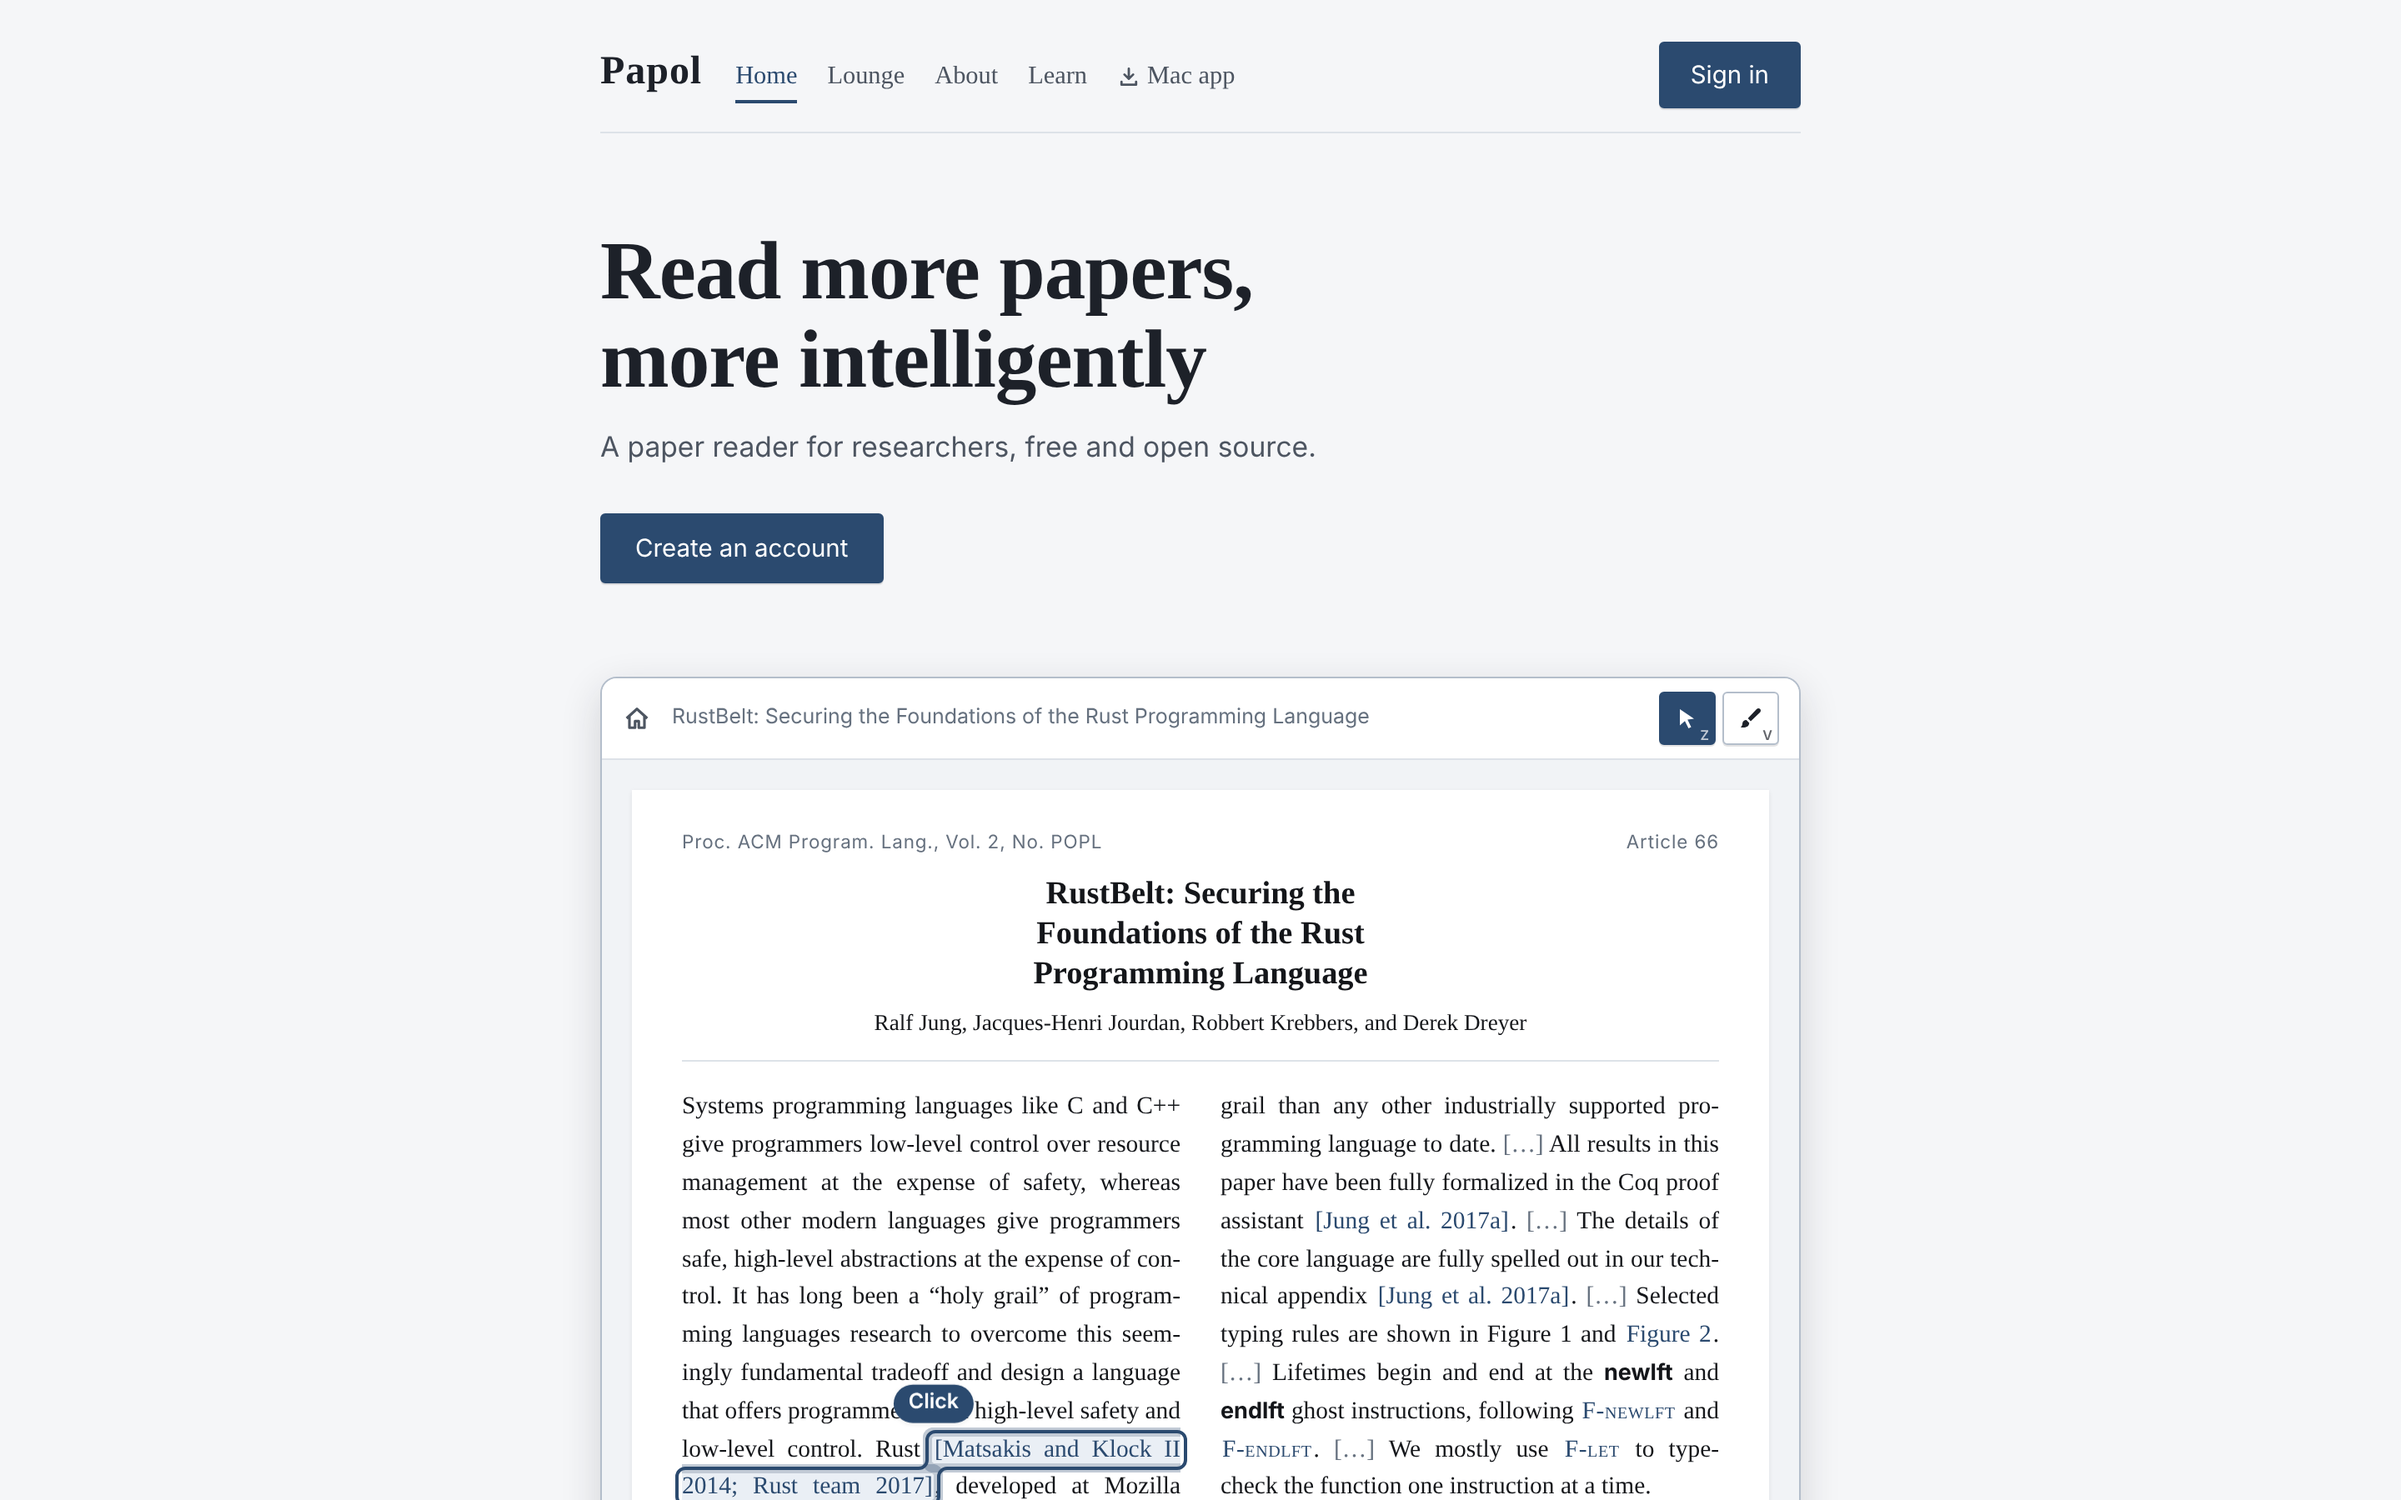
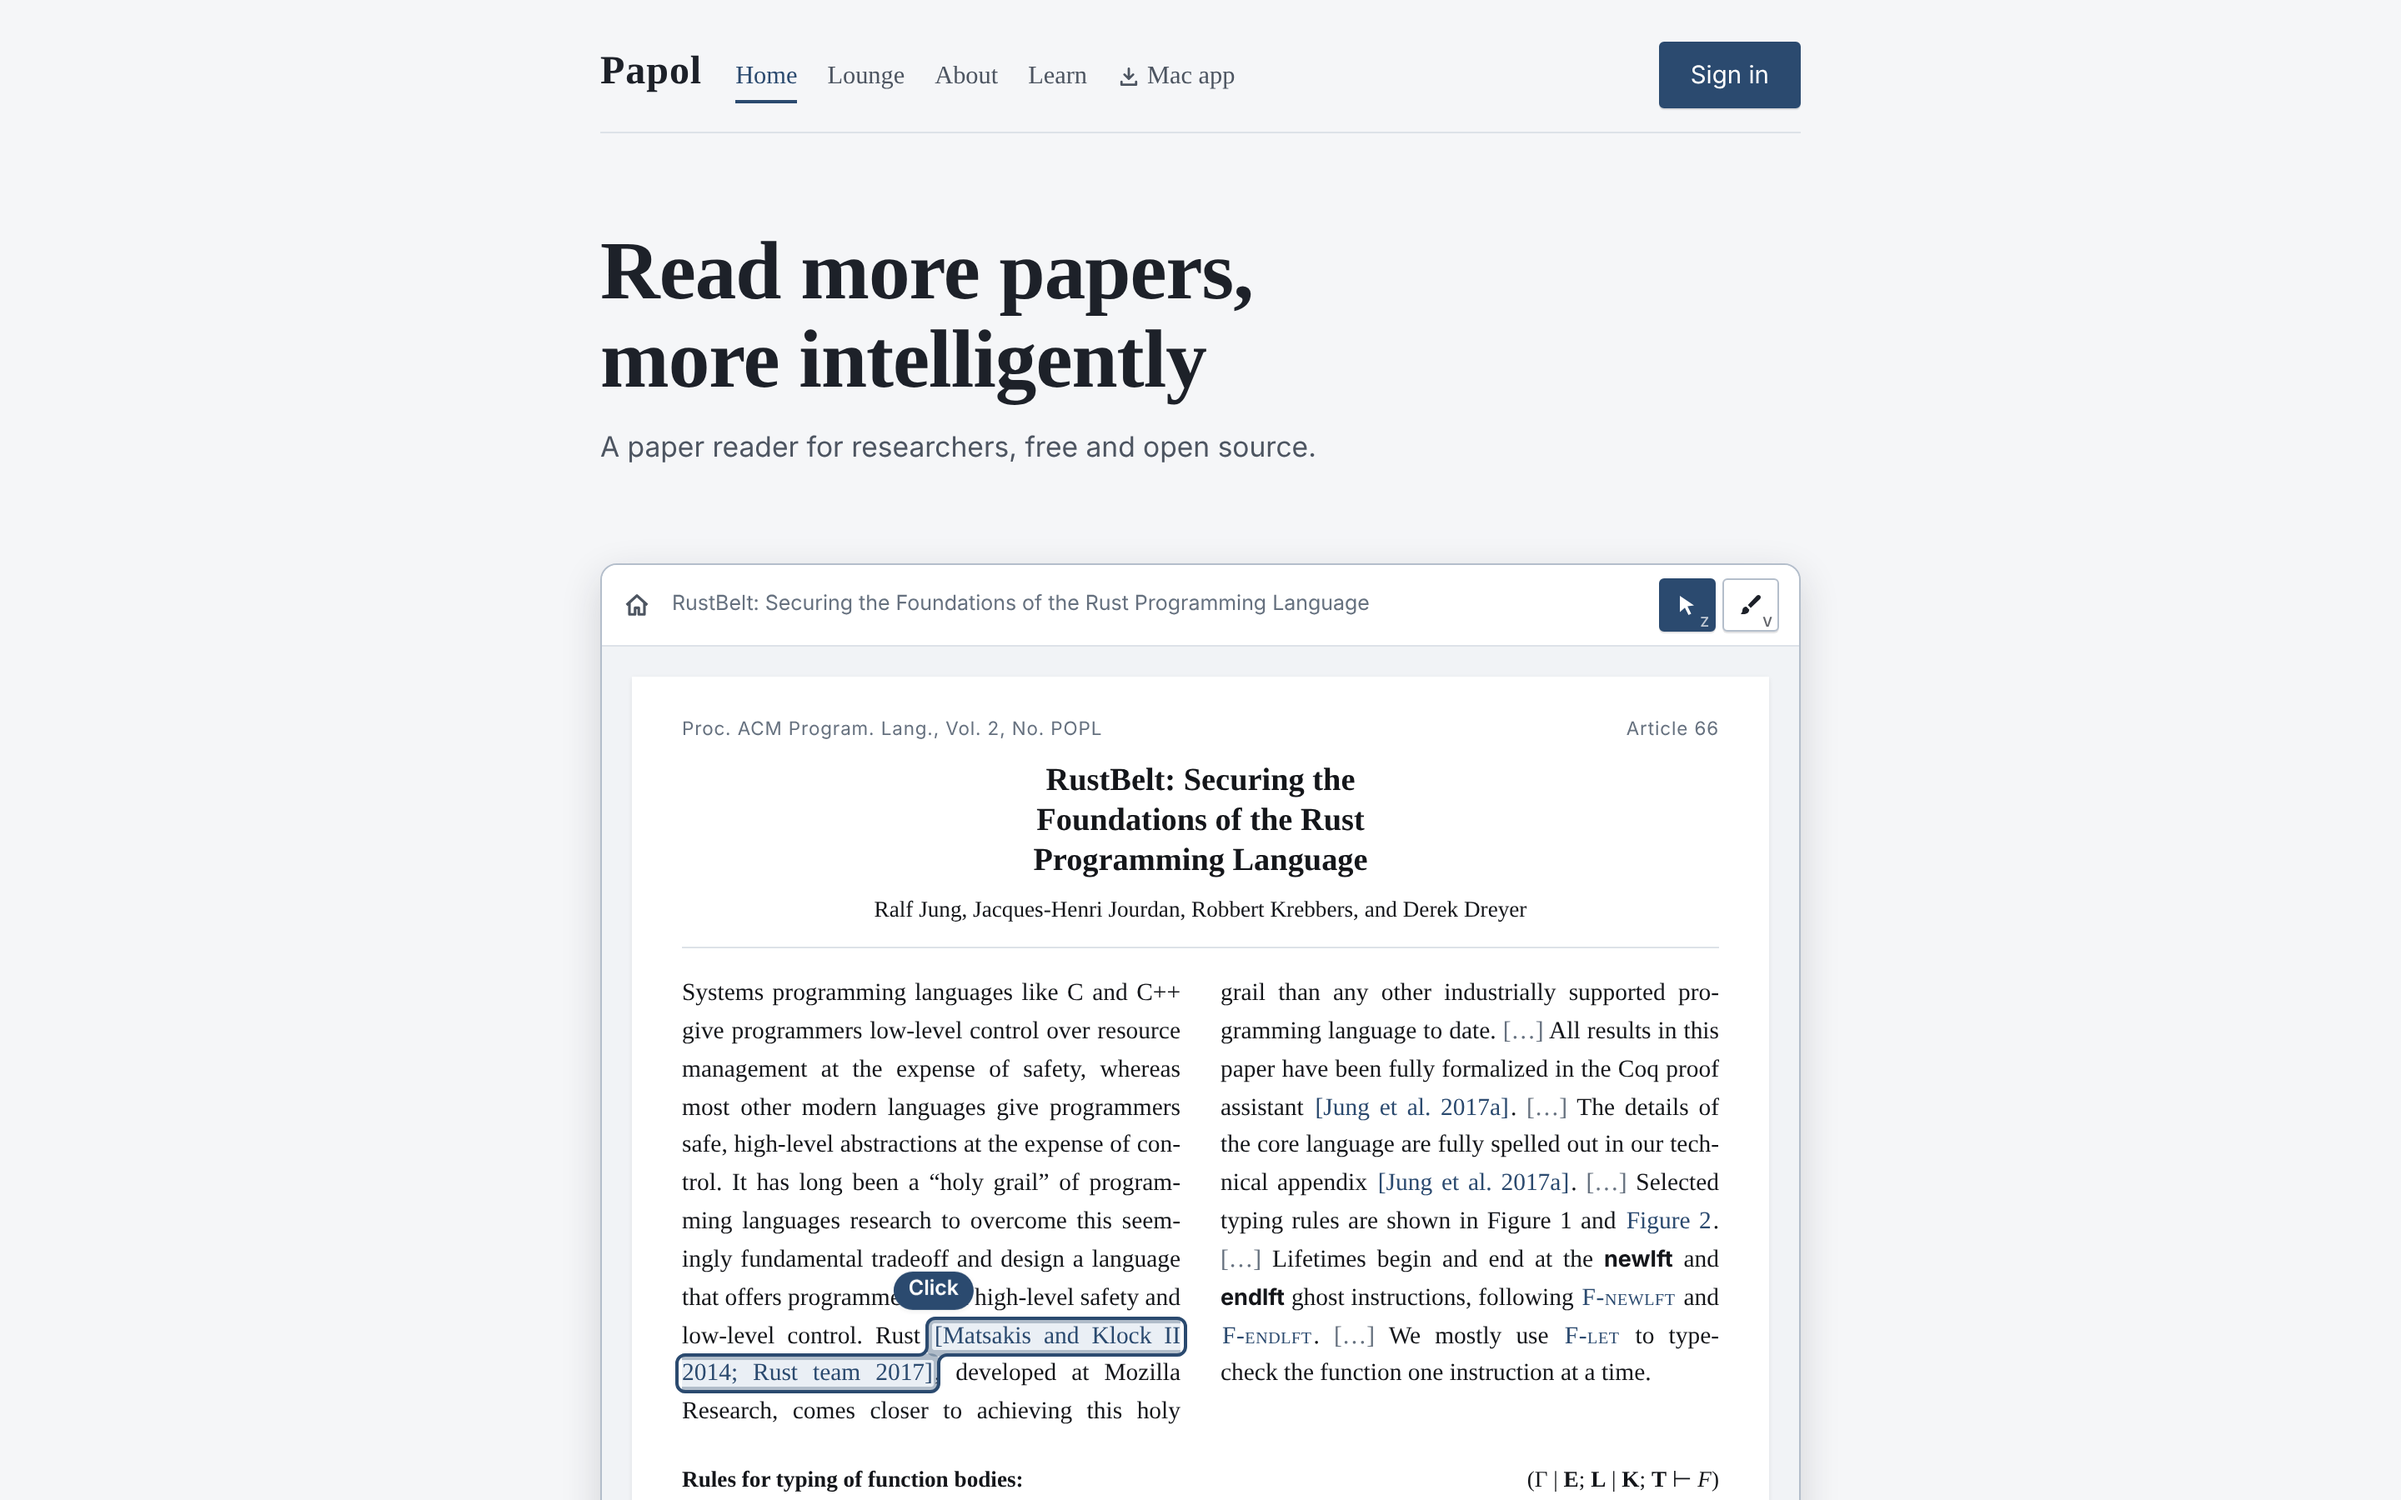
The landing heading has no buttons under it
Create an account goes too: the paper to try comes straight after the
one line that says what Papol is. The way to join stays at the foot of
the page, and Sign in stays in the bar.

Claude-Session: https://claude.ai/code/session_01PQZzMUS3tB21Bk48RQwY8X

Changed region(s): [[0.2812, 0.4667, 0.7188, 1.0], [0.25, 0.3422, 0.5625, 0.4044], [0.6875, 0.3733, 0.75, 0.4978]]

diff --git a/frontend/src/components/HomePage.jsx b/frontend/src/components/HomePage.jsx
@@ -31,9 +31,6 @@ export default function HomePage() {
       <header className="landing-hero">
         <h1 className="landing-title">Read more papers, more intelligently</h1>
         <p className="landing-fact">A paper reader for researchers, free and open source.</p>
-        <div className="landing-doors">
-          <a className="landing-button primary" href={appPath('/join')}>Create an account</a>
-        </div>
       </header>
 
       <section id="viewer" className="landing-place-section" aria-label="Viewer">
